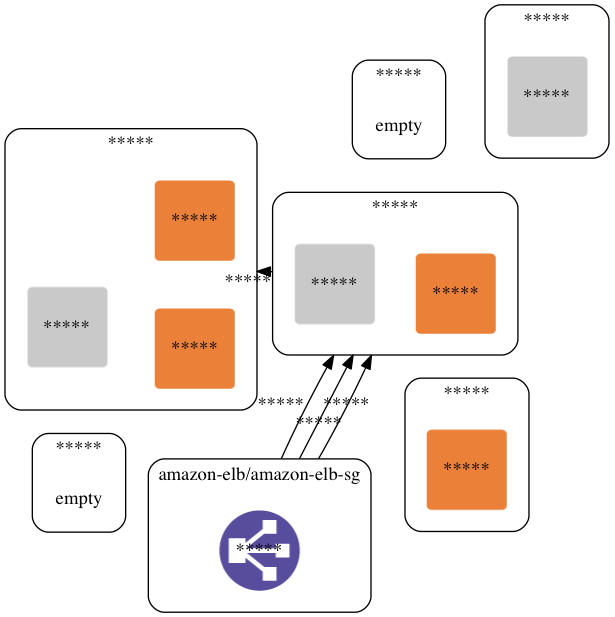
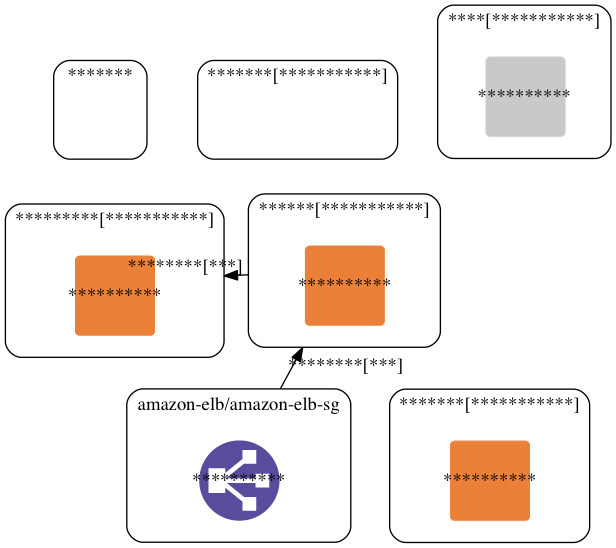
Change graphviz library

Changed region(s): [[0.0, 0.0, 1.0, 1.0], [0.0927, 0.2792, 0.2163, 0.3102], [0.0309, 0.7135, 0.0618, 0.8376]]

diff --git a/lib/aws-graph.rb b/lib/aws-graph.rb
@@ -1,8 +1,7 @@
 require "aws-graph/version"
 require "thor"
 require 'aws-sdk'
-require 'graphviz'
-require 'pp'
+require 'gviz'
 
 module AwsGraph
   class CLI < Thor
@@ -12,7 +11,6 @@ module AwsGraph
     method_option :output, :type => :string, :aliases => '-o', :default => 'output.png', :banner => 'output file path'
     method_option :secret, :type => :boolean, :aliases => '-s', :default => false, :banner => 'mask label'
     def draw()
-      @secret = options[:secret]
       yml = options[:config]
       self.load(yml)
       self.sg()
@@ -20,17 +18,8 @@ module AwsGraph
 
     protected
     def sg()
-      g = GraphViz::new( "G",
-                         :type => :digraph,
-                         :use => :fdp,
-                         :layout => :fdp,
-                         :overlap => false,
-                         :compound => true,
-                         :rankdir => 'LR'
-                         )
-      g.edge["lhead"] = ""
-      g.edge["ltail"] = ""
-      g.node[:shape] = 'box'
+      gv = Gviz.new(:AWS, :digraph)
+
       ec2_instances = @ec2.instances # EC2 instances
       vpcs = @ec2.vpcs # VPC Collection
       security_groups = @ec2.security_groups # EC2 security groups
@@ -39,156 +28,178 @@ module AwsGraph
       db_security_groups = rds_client.describe_db_security_groups
       lbs = @elb.load_balancers # ELB
 
-      sg_hash = {}
+      secret = options[:secret]
 
-      # Create EC2 security group cluster
-      security_groups.each do | sg |
-        print "."
-        sg_hash[sg.id] = g.add_graph('cluster' + sg.id,
-                                  :label => self.label(sg.name + '[' + sg.id + ']'),
-                                  :style => 'rounded')
-      end
+      gv.graph do
+        global layout:'fdp', overlap:false, compound:true, rankdir:'LR'
+        edges lhead: '', ltail: ''
+        nodes shape: 'box'
 
-      # Create RDS security group cluster
-      db_security_groups[:db_security_groups].each do | db_sg |
-        print "."
-        sg_hash[db_sg[:db_security_group_name]] = g.add_graph('cluster' + db_sg[:db_security_group_name],
-                                                           :label => self.label(db_sg[:db_security_group_name]),
-                                                           :style => 'rounded')
-      end
+        sg_hash = {}
 
-      # Append EC2 to EC2 security group
-      ec2a = {}
-      ec2_instances.each do | e |
-        if e.status == :running
-          image_path = File.dirname(__FILE__) + '/ec2.png'
-        else
-          image_path = File.dirname(__FILE__) + '/ec2_disactive.png'
-        end
-        e.security_groups.each do | sg |
+        # Create EC2 security group cluster
+        security_groups.each do | sg |
           print "."
-          ec2a[e.id] = sg_hash[sg.id].add_nodes(sg.id + '-' + e.id, :label => self.label(e.id),
-                                             :shape => :none,
-                                             :image => image_path)
+          cluster_id = 'cluster' + sg.id.gsub(/[-\/]/,'')
+          sg_hash[sg.id] = cluster_id
+          subgraph(cluster_id.to_sym) do
+            global label: Util.new.label(sg.name + '[' + sg.id + ']', secret), style: 'rounded'
+          end
         end
-      end
 
-      # Append VPC EC2 to EC2 security group
-      vpcs.each do | vpc |
-        vpc.instances.each do | e |
+        # Create RDS security group cluster
+        db_security_groups[:db_security_groups].each do | db_sg |
+          print "."
+          cluster_id = 'cluster' + db_sg[:db_security_group_name].gsub(/[-\/]/,'')
+          subgraph(cluster_id.to_sym) do
+            global label: Util.new.label(db_sg[:db_security_group_name], secret), style: 'rounded'
+          end
+        end
+
+        # Append EC2 to EC2 security group
+        ec2_instances.each do | e |
           if e.status == :running
             image_path = File.dirname(__FILE__) + '/ec2.png'
           else
             image_path = File.dirname(__FILE__) + '/ec2_disactive.png'
           end
           e.security_groups.each do | sg |
+            print "."
+            cluster_id = 'cluster' + sg.id.gsub(/[-\/]/,'')
+            subgraph(cluster_id.to_sym) do
+              node (sg.id + ':' + e.id).gsub(/[-\/]/, '').to_sym, label: Util.new.label(e.id, secret), shape: :none, image: image_path
+            end
+          end
+        end
+
+        # Append VPC EC2 to EC2 security group
+        vpcs.each do | vpc |
+          vpc.instances.each do | e |
+            if e.status == :running
+              image_path = File.dirname(__FILE__) + '/ec2.png'
+            else
+              image_path = File.dirname(__FILE__) + '/ec2_disactive.png'
+            end
+            e.security_groups.each do | sg |
+              print "v"
+              cluster_id = 'cluster' + sg.id.gsub(/[-\/]/,'')
+              subgraph(cluster_id.to_sym) do
+                node (sg.id + ':' + e.id).gsub(/[-\/]/, '').to_sym, label: Util.new.label(e.id, secret), shape: :none, image: image_path
+              end
+            end
+          end
+        end
+
+        # Append RDS to RDS security group
+        db_instancesa = {}
+        db_instances[:db_instances].each do | r |
+          r[:db_security_groups].each do | db_sg |
+            print "."
+            cluster_id = 'cluster' + db_sg[:db_security_group_name].gsub(/[-\/]/,'')
+            image_path = File.dirname(__FILE__) + '/rds.png'
+            subgraph(cluster_id.to_sym) do
+              node (r[:db_instance_identifier]).gsub(/[-\/]/, '').to_sym, label: Util.new.label(r[:db_instance_identifier], secret), shape: :none, image: image_path
+            end
+          end
+          r[:vpc_security_groups].each do | sg |
             print "v"
-            ec2a[e.id] = sg_hash[sg.id].add_nodes(sg.id + '-' + e.id, :label => self.label(e.id),
-                                               :shape => :none,
-                                               :image => image_path)
-          end
-        end
-      end
-
-      # Append RDS to RDS security group
-      db_instancesa = {}
-      db_instances[:db_instances].each do | r |
-        r[:db_security_groups].each do | sg |
-          print "."
-          ec2a[r[:db_instance_identifier]] = sg_hash[sg[:db_security_group_name]].add_nodes(r[:db_instance_identifier], :label => self.label(r[:db_instance_identifier]), :shape => :none, :image => File.dirname(__FILE__) + '/rds.png')
-        end
-        r[:vpc_security_groups].each do | sg |
-          print "v"
-          ec2a[r[:db_instance_identifier]] = sg_hash[sg[:vpc_security_group_id]].add_nodes(r[:db_instance_identifier], :label => self.label(r[:db_instance_identifier]), :shape => :none, :image => File.dirname(__FILE__) + '/rds.png')
-        end
-      end
-
-      # Add edges EC2 security group
-      security_groups.each do | sg |
-        ips = sg.ingress_ip_permissions # inbound permissions
-        ips.each do | ip |
-
-          # EC2 security group -> EC2 security group
-          ip.groups.each do | fromsg |
-            next if fromsg.id == sg.id
-            print "-"
-            unless sg_hash[fromsg.id]
-              unknown = AWS::EC2::SecurityGroup.new(fromsg.id)
-              # Unknown security group is amazon-elb/amazon-elb-sg
-              sg_hash['amazon-elb/amazon-elb-sg'] = g.add_graph('cluster' + fromsg.id,
-                                                             :label => 'amazon-elb/amazon-elb-sg',
-                                                             :style => 'rounded')
-            end
-            g.add_edge('cluster' + fromsg.id,
-                       'cluster' + sg.id,
-                       :label => self.label(ip.port_range.to_s + '[' + ip.protocol.to_s + ']'))
-          end
-        end
-      end
-
-      # EC2 security group -> RDS security group
-      db_security_groups[:db_security_groups].each do | db_sg |
-        print "-"
-        db_sg[:ec2_security_groups].each do | sg |
-          if sg[:ec2_security_group_id]
-            g.add_edge('cluster' + sg[:ec2_security_group_id],
-                       'cluster' + db_sg[:db_security_group_name],
-                       :label => 'RDS')
-          else
-            # なぜかdb_security_group_idが存在しないものがある
-            security_groups.each do | s |
-              g.add_edge('cluster' + s.id,
-                       'cluster' + db_sg[:db_security_group_name],
-                       :label => 'RDS') if s.name == sg[:ec2_security_group_name]
+            cluster_id = 'cluster' + sg[:vpc_security_group_id].gsub(/[-\/]/,'')
+            image_path = File.dirname(__FILE__) + '/rds.png'
+            subgraph(cluster_id.to_sym) do
+              node (r[:db_instance_identifier]).gsub(/[-\/]/, '').to_sym, label: Util.new.label(r[:db_instance_identifier], secret), shape: :none, image: image_path
             end
           end
         end
+
+        # Add edges EC2 security group
+        security_groups.each do | sg |
+          ips = sg.ingress_ip_permissions # inbound permissions
+          ips.each do | ip |
+
+            # EC2 security group -> EC2 security group
+            ip.groups.each do | fromsg |
+              next if fromsg.id == sg.id
+              print "-"
+              unless sg_hash[fromsg.id]
+                # Unknown security group is amazon-elb/amazon-elb-sg
+                unknown = AWS::EC2::SecurityGroup.new(fromsg.id)
+                cluster_id = 'cluster' + fromsg.id.gsub(/[-\/]/,'')
+                sg_hash['amazon-elb/amazon-elb-sg'] = cluster_id
+                subgraph(cluster_id.to_sym) do
+                  global label: Util.new.label('amazon-elb/amazon-elb-sg', false), style: 'rounded'
+                end
+              end
+              from_cluster_id = 'cluster' + fromsg.id.gsub(/[-\/]/,'')
+              to_cluster_id = 'cluster' + sg.id.gsub(/[-\/]/,'')
+              route from_cluster_id.to_sym => to_cluster_id.to_sym
+              edge (from_cluster_id + '_' + to_cluster_id).to_sym, label: Util.new.label(ip.port_range.to_s + '[' + ip.protocol.to_s + ']', secret)
+            end
+          end
+        end
+
+        # EC2 security group -> RDS security group
+        db_security_groups[:db_security_groups].each do | db_sg |
+          print "-"
+          db_sg[:ec2_security_groups].each do | sg |
+            if sg[:ec2_security_group_id]
+              from_cluster_id = 'cluster' + sg[:ec2_security_group_id].gsub(/[-\/]/,'')
+              to_cluster_id = 'cluster' + db_sg[:db_security_group_name].gsub(/[-\/]/,'')
+              route from_cluster_id.to_sym => to_cluster_id.to_sym
+              edge (from_cluster_id + '_' + to_cluster_id).to_sym, label: 'RDS'
+            else
+              # なぜかdb_security_group_idが存在しないものがある
+              security_groups.each do | s |
+                if s.name == sg[:ec2_security_group_name]
+                  from_cluster_id = 'cluster' + s.id.gsub(/[-\/]/,'')
+                  to_cluster_id = 'cluster' + db_sg[:db_security_group_name].gsub(/[-\/]/,'')
+                  route from_cluster_id.to_sym => to_cluster_id.to_sym
+                  edge (from_cluster_id + '_' + to_cluster_id).to_sym, label: 'RDS'
+                end
+              end
+            end
+          end
+        end
+
+        # Append ELB to ELB security group
+        lbs.each do | lb |
+          break unless sg_hash['amazon-elb/amazon-elb-sg']
+          cluster_id = sg_hash['amazon-elb/amazon-elb-sg']
+          image_path = File.dirname(__FILE__) + '/elb.png'
+          subgraph(cluster_id.to_sym) do
+            node lb.name.gsub('-', '').to_sym, label: Util.new.label(lb.name, secret), shape: :none, image: image_path
+          end
+        end
+
+        puts ''
       end
-
-      # Append ELB to ELB security group
-      lbs.each do | lb |
-        break unless sg_hash['amazon-elb/amazon-elb-sg']
-        sg_hash['amazon-elb/amazon-elb-sg'].add_nodes(lb.name, :label => self.label(lb.name), :shape => :none, :image => File.dirname(__FILE__) + '/elb.png')
-      end
-
-      # Empty security group
-      sg_hash.each do | (key, sg) |
-        next if sg.node_count > 0
-        sg_hash[key].add_nodes(key + 'empty',
-                            :label => 'empty',
-                            :shape => :none,
-                            )
-      end
-
-      g.output( :png => options[:output])
-
-      puts ''
+      gv.save(options[:output].sub(/\.png$/,''), :png)
     end
 
     protected
     def load(yml)
       @config = YAML.load_file(yml)
       @ec2 = AWS::EC2.new(
-                         :access_key_id => @config['aws_access_key_id'],
-                         :secret_access_key => @config['aws_secret_access_key'],
-                         :region => @config['aws_region'],
-                         )
+                          :access_key_id => @config['aws_access_key_id'],
+                          :secret_access_key => @config['aws_secret_access_key'],
+                          :region => @config['aws_region'],
+                          )
       @rds = AWS::RDS.new(
-                         :access_key_id => @config['aws_access_key_id'],
-                         :secret_access_key => @config['aws_secret_access_key'],
-                         :region => @config['aws_region'],
-                         )
+                          :access_key_id => @config['aws_access_key_id'],
+                          :secret_access_key => @config['aws_secret_access_key'],
+                          :region => @config['aws_region'],
+                          )
       @elb = AWS::ELB.new(
-                         :access_key_id => @config['aws_access_key_id'],
-                         :secret_access_key => @config['aws_secret_access_key'],
-                         :region => @config['aws_region'],
-                         )
+                          :access_key_id => @config['aws_access_key_id'],
+                          :secret_access_key => @config['aws_secret_access_key'],
+                          :region => @config['aws_region'],
+                          )
     end
+  end
 
-    protected
-    def label(text)
-      if @secret
-        return '*****'
+  class Util
+    def label(text, secret)
+      if secret
+        return text.gsub(/[^\[\]]/,'*')
       else
         return text
       end
